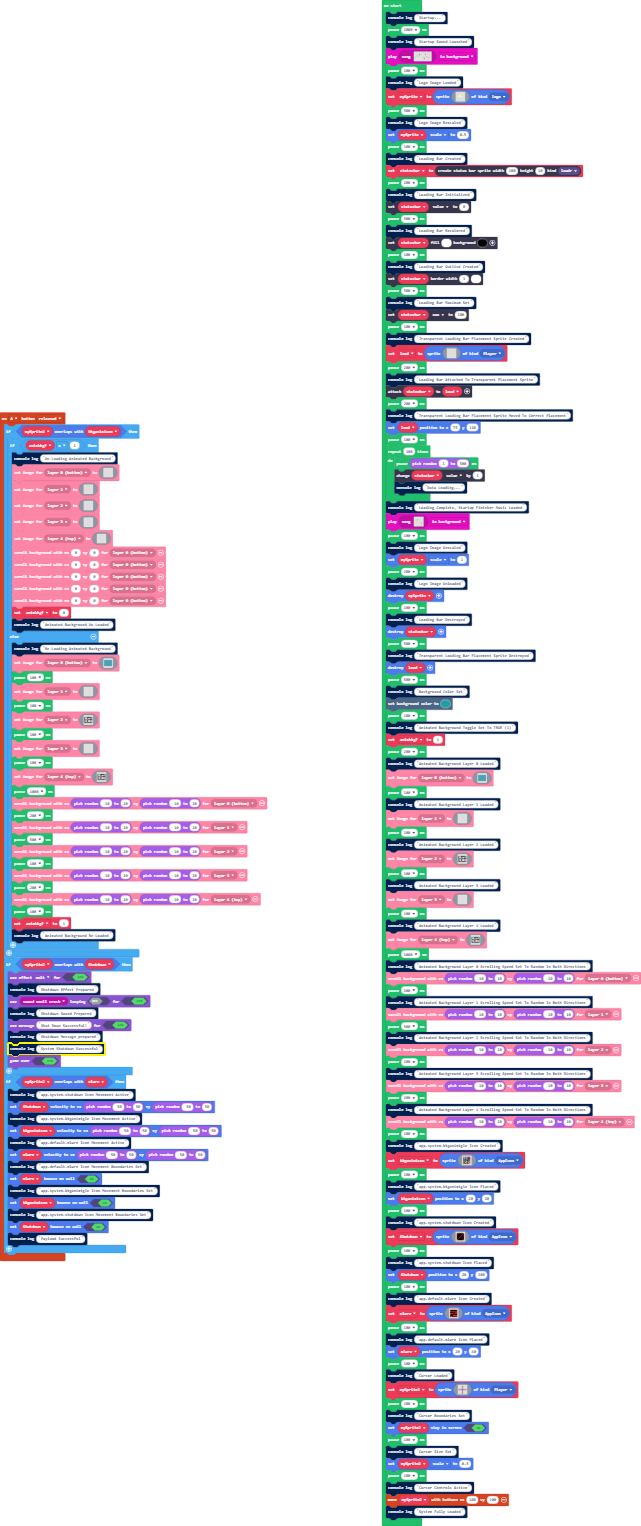
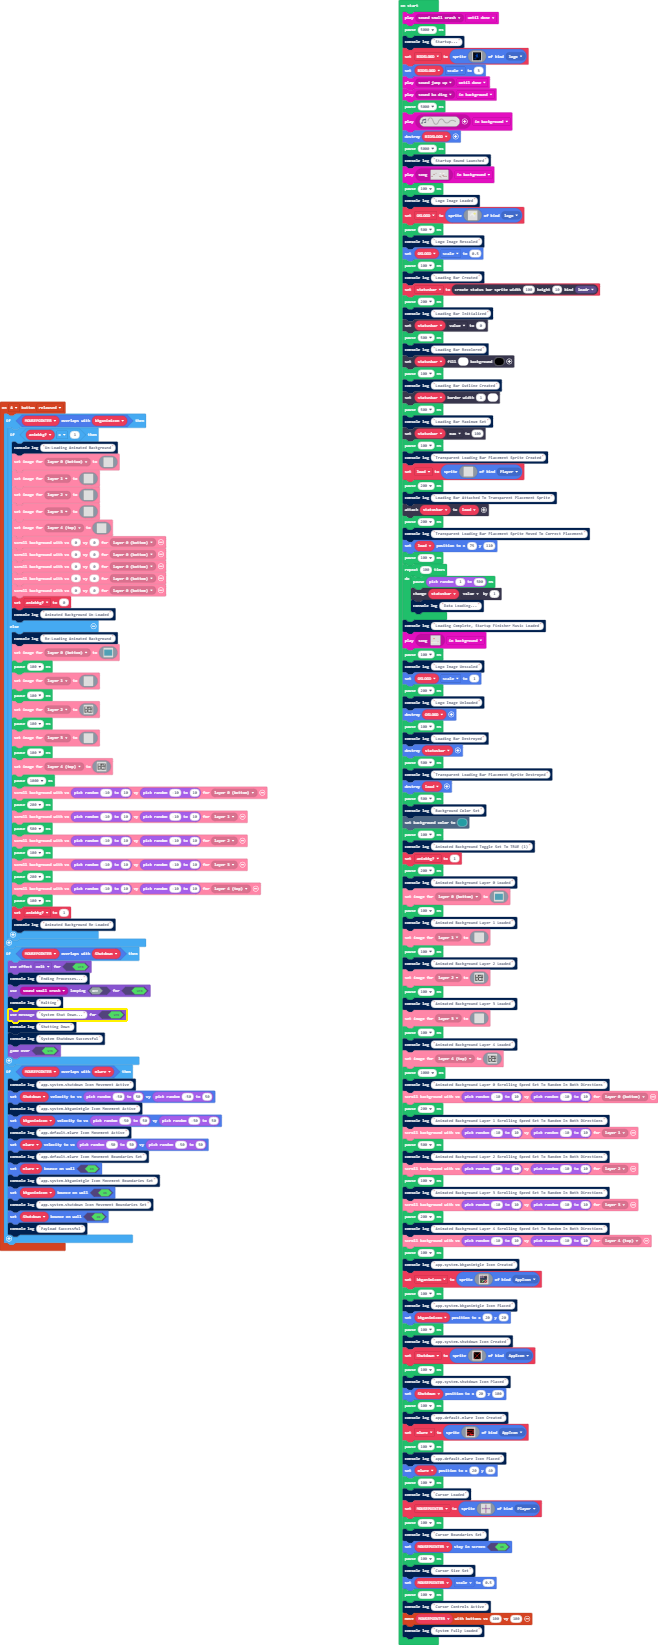
FAKEBIOS Has Been Created.

Changed region(s): [[0.5928, 0.0, 1.0, 1.0], [0.0, 0.2464, 0.4056, 0.8316]]

diff --git a/main.ts b/main.ts
@@ -6,7 +6,7 @@ namespace StatusBarKind {
     export const loadr = StatusBarKind.create()
 }
 controller.A.onEvent(ControllerButtonEvent.Released, function () {
-    if (mySprite2.overlapsWith(bkganimicon)) {
+    if (MOUSEPOINTER.overlapsWith(bkganimicon)) {
         if (animbkg == 1) {
             console.log("Un-Loading Animated Background")
             scroller.setLayerImage(scroller.BackgroundLayer.Layer0, img`
@@ -652,17 +652,17 @@ controller.A.onEvent(ControllerButtonEvent.Released, function () {
             console.log("Animated Background Re-Loaded")
         }
     }
-    if (mySprite2.overlapsWith(Shutdown)) {
+    if (MOUSEPOINTER.overlapsWith(Shutdown)) {
         game.setGameOverEffect(true, effects.melt)
-        console.log("Shutdown Effect Prepared")
+        console.log("Ending Processes...")
         game.setGameOverPlayable(true, music.melodyPlayable(music.smallCrash), false)
-        console.log("Shutdown Sound Prepared")
-        game.setGameOverMessage(true, "Shut Down Successful!")
-        console.log("Shutdown Message prepared")
+        console.log("Halting")
+        game.setGameOverMessage(true, "System Shut Down...")
+        console.log("Shutting Down")
         console.log("System Shutdown Successful")
         game.gameOver(true)
     }
-    if (mySprite2.overlapsWith(mlwre)) {
+    if (MOUSEPOINTER.overlapsWith(mlwre)) {
         console.log("app.system.shutdown Icon Movement Active")
         Shutdown.setVelocity(randint(-50, 50), randint(-50, 50))
         console.log("app.system.bkganimtgle Icon Movement Active")
@@ -678,21 +678,30 @@ controller.A.onEvent(ControllerButtonEvent.Released, function () {
         console.log("Payload Successful")
     }
 })
-let mySprite2: Sprite = null
+let MOUSEPOINTER: Sprite = null
 let mlwre: Sprite = null
 let Shutdown: Sprite = null
 let bkganimicon: Sprite = null
 let animbkg = 0
+music.play(music.melodyPlayable(music.smallCrash), music.PlaybackMode.UntilDone)
+pause(5000)
 console.log("Startup...")
-pause(1000)
+let BIOSLOGO = sprites.create(assets.image`BIOS`, SpriteKind.logo)
+BIOSLOGO.scale = 3
+music.play(music.melodyPlayable(music.jumpUp), music.PlaybackMode.UntilDone)
+music.play(music.melodyPlayable(music.baDing), music.PlaybackMode.InBackground)
+pause(5000)
+music.play(music.createSoundEffect(WaveShape.Sine, 1627, 1627, 255, 0, 500, SoundExpressionEffect.None, InterpolationCurve.Linear), music.PlaybackMode.InBackground)
+sprites.destroy(BIOSLOGO)
+pause(5000)
 console.log("Startup Sound Launched")
 music.play(music.createSong(assets.song`startup`), music.PlaybackMode.InBackground)
 pause(100)
 console.log("Logo Image Loaded")
-let mySprite = sprites.create(assets.image`oslogo`, SpriteKind.logo)
+let OSLOGO = sprites.create(assets.image`oslogo`, SpriteKind.logo)
 pause(500)
 console.log("Logo Image Rescaled")
-mySprite.scale = 0.5
+OSLOGO.scale = 0.5
 pause(100)
 console.log("Loading Bar Created")
 let statusbar = statusbars.create(100, 10, StatusBarKind.loadr)
@@ -727,10 +736,10 @@ console.log("Loading Complete, Startup Finisher Music Loaded")
 music.play(music.createSong(assets.song`shutdown`), music.PlaybackMode.InBackground)
 pause(100)
 console.log("Logo Image Unscaled")
-mySprite.scale = 1
+OSLOGO.scale = 1
 pause(200)
 console.log("Logo Image Unloaded")
-sprites.destroy(mySprite)
+sprites.destroy(OSLOGO)
 pause(100)
 console.log("Loading Bar Destroyed")
 sprites.destroy(statusbar)
@@ -793,14 +802,14 @@ console.log("app.default.mlwre Icon Placed")
 mlwre.setPosition(20, 40)
 pause(100)
 console.log("Cursor Loaded")
-mySprite2 = sprites.create(assets.image`mouse pointer`, SpriteKind.Player)
+MOUSEPOINTER = sprites.create(assets.image`mouse pointer`, SpriteKind.Player)
 pause(100)
 console.log("Cursor Boundaries Set")
-mySprite2.setStayInScreen(true)
+MOUSEPOINTER.setStayInScreen(true)
 pause(100)
 console.log("Cursor Size Set")
-mySprite2.scale = 0.5
+MOUSEPOINTER.scale = 0.5
 pause(100)
 console.log("Cursor Controls Active")
-controller.moveSprite(mySprite2, 100, 100)
+controller.moveSprite(MOUSEPOINTER, 100, 100)
 console.log("System Fully Loaded")

diff --git a/images.g.ts b/images.g.ts
@@ -1014,6 +1014,41 @@ d 2 f f 2 f f 2 2 2 2 2 2 2 2 d
 d f 2 2 2 f f f f f 2 f f f f d 
 d d d d d d d d d d d d d d d d 
 `;
+            case "image15":
+            case "BIOS":return img`
+ffffffffffffffffffffffffffffffff
+ffffffffffffffffffffffffffffffff
+ffffffffffffffffffffffffffffffff
+ffffffffffffffffffffffffffffffff
+fffffff888888888888888888fffffff
+fffffff8ffffffffffffffff8fffffff
+fffffff8ffffffffffffffff8fffffff
+fffffff8ffffff8888ffffff8fffffff
+fffffff8ffffff8888ffffff8fffffff
+fffffff8fff8888888888fff8fffffff
+fffffff8fff8888888888fff8fffffff
+fffffff8fff8888888888fff8fffffff
+fffffff8f888888888888fff8fffffff
+fffffff8f8888888888fffff8fffffff
+fffffff8f8888888888fffff8fffffff
+fffffff8f8888888888fffff8fffffff
+fffffff8fff8888888888fff8fffffff
+fffffff8fff8888888888fff8fffffff
+fffffff8fff8888888888fff8fffffff
+fffffff8ffffffffffffffff8fffffff
+fffffff888888888888888888fffffff
+ffffffffffffffffffffffffffffffff
+ffff8fffffffffffffffffffffffffff
+ffff88ff8fff8888ffffffffffffffff
+fff888ff88f88ff8fffffffffff88fff
+fff8f8f888f8fffffffffffffff88fff
+fff8f888f8f8ffffffffffffff8f88ff
+fff8ff8ff8f8ffffff88888ff88ff8ff
+ff8fff8ff8f8fffffffffffff88888ff
+ff8ffffffff88ffffffffffff8fff8ff
+fffffffffffff8ffffffffff88fff8ff
+ffffffffffffffffffffffffffffffff
+`;
         }
         return null;
     })
